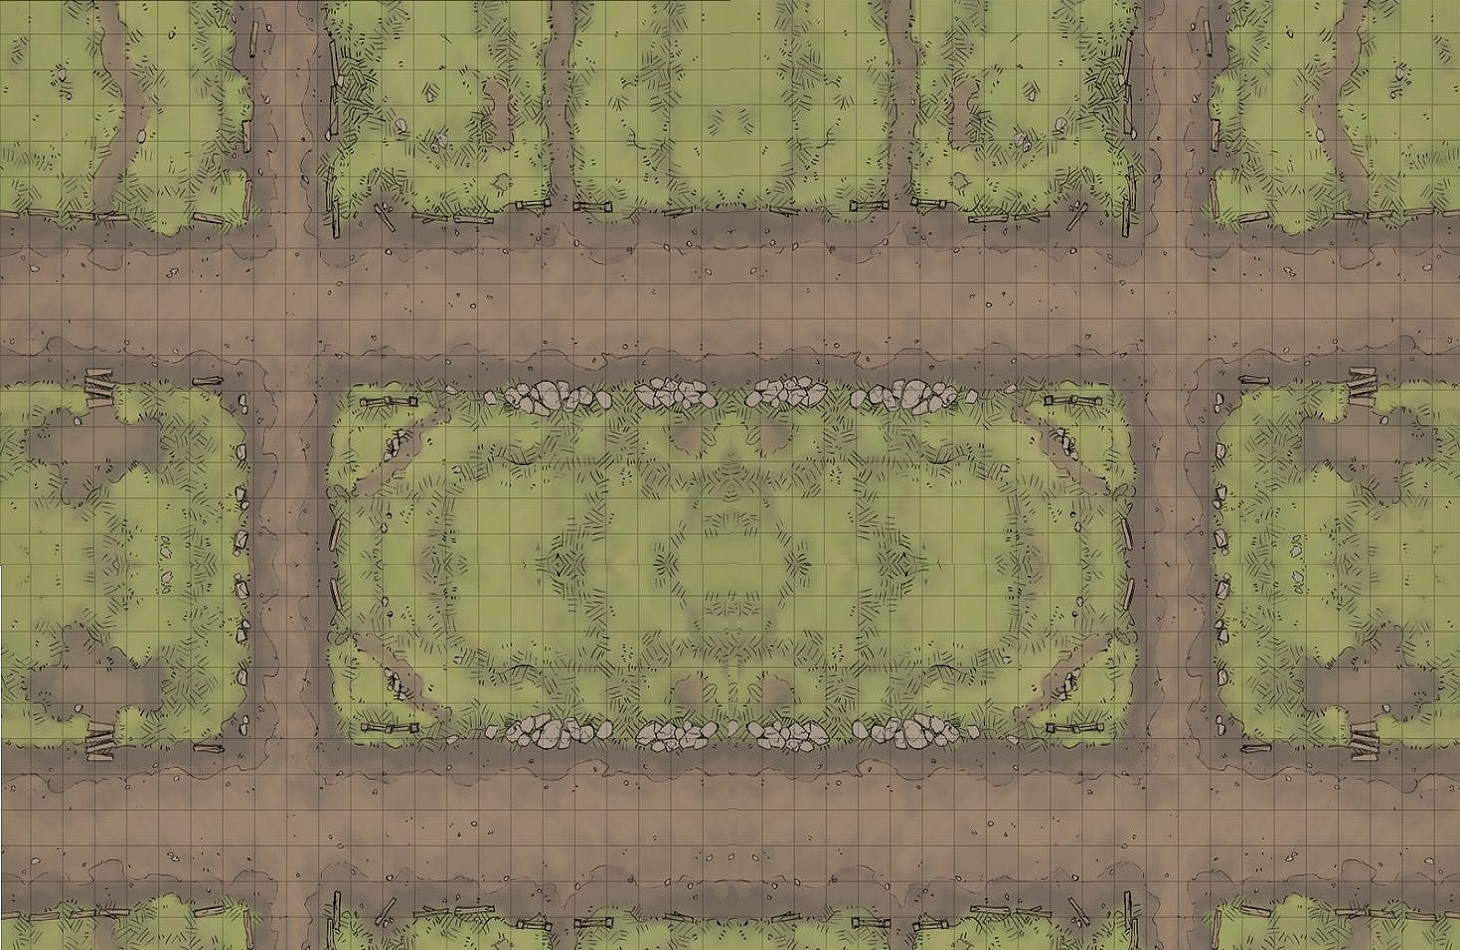
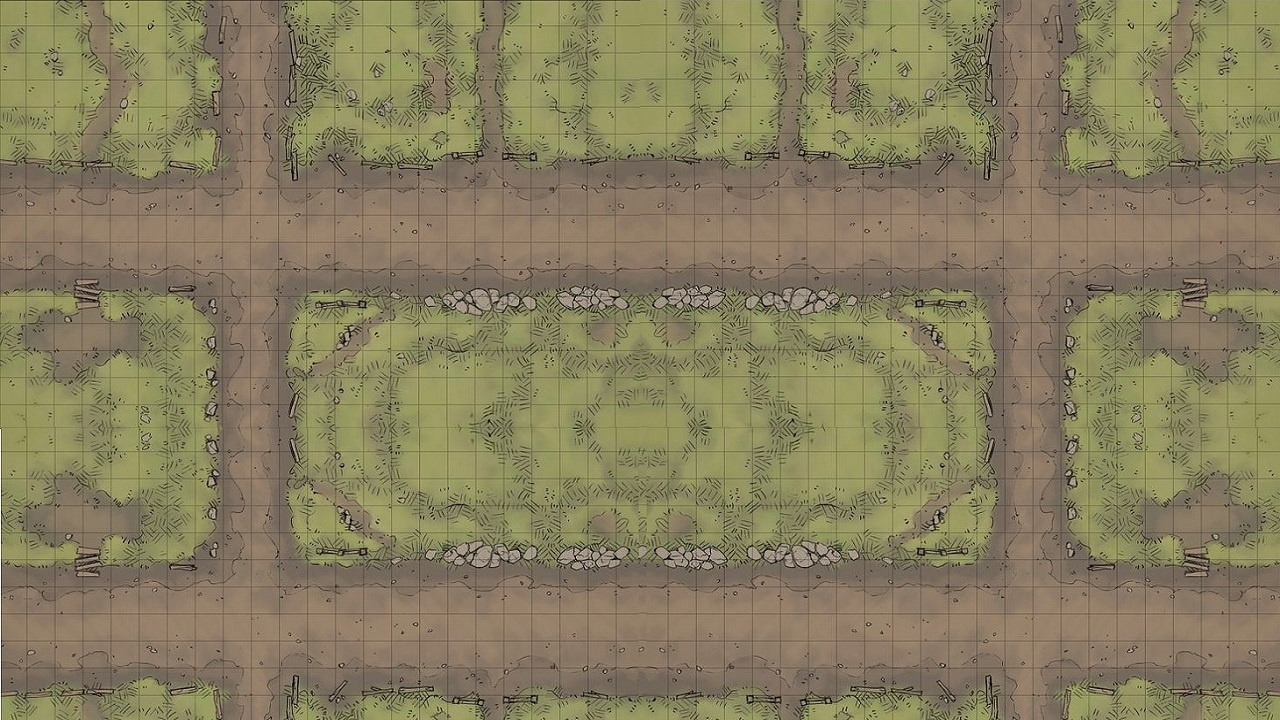
zsdgf

Changed region(s): [[0.5312, 0.7639, 0.5625, 0.7944], [0.5312, 0.3972, 0.5625, 0.4278], [0.4375, 0.3972, 0.4688, 0.4278]]

diff --git a/SurvivalGame/src/survivalgame/Map.java b/SurvivalGame/src/survivalgame/Map.java
@@ -23,7 +23,7 @@ public class Map extends JFrame {
     private ZombieGenerator zf;
     private Player p ;
     private Weapons w = new Weapons ();
-    ImageIcon MapIcn= new ImageIcon(getClass().getResource("misc/Map.jpg"));
+    ImageIcon MapIcn= new ImageIcon(getClass().getResource("misc/map1.jpg"));
     ImageIcon Zombierawr= new ImageIcon(getClass().getResource("misc/Sprites/ZombieWalk_normal_scaled_fast.gif"));
     ImageIcon Playericon  = new ImageIcon(getClass().getResource("misc/Sprites/Soldier.png"));
     private Random r;
